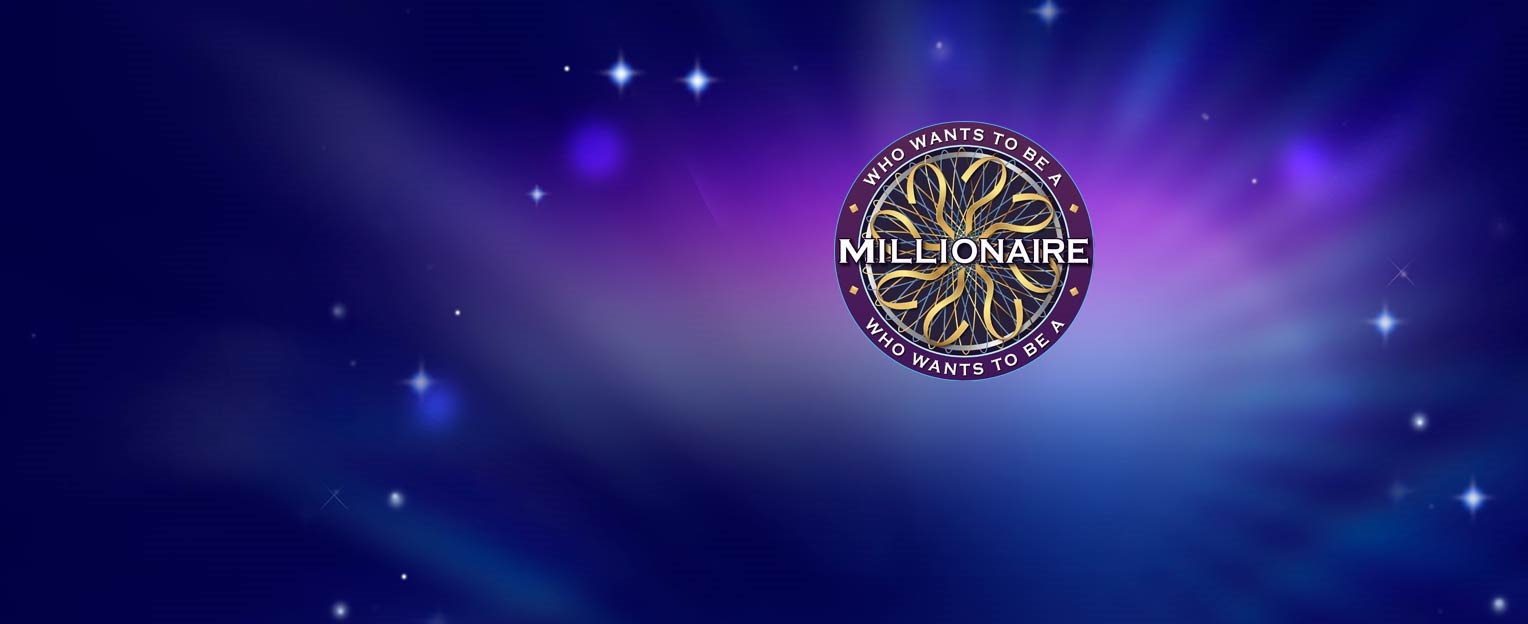
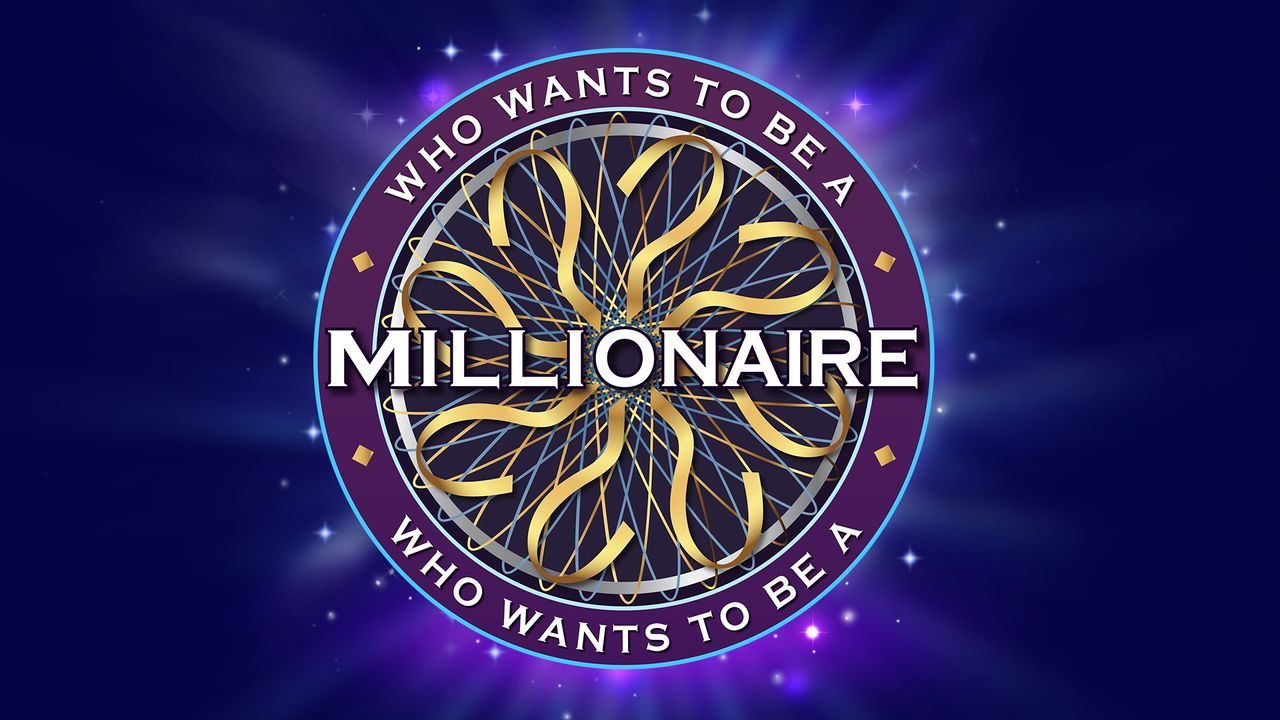
se suben cambios del login

diff --git a/src/css/App.css b/src/css/App.css
@@ -4,11 +4,17 @@
   display: flex;
   justify-content: center;
   align-items: center;
+}
+
+.backgroundLogin {
+  width: 100vw;
+  height: 100vh;
+  position: absolute;
   background-image: url('/src/assets/images/millionaire_.jpg');
   background-repeat: no-repeat;
   background-attachment: fixed;
   background-position: center;
-  opacity: 0.7,
+  background-color: #040444;
 }
 
 .w100vh {

diff --git a/src/screens/LoginScreen.tsx b/src/screens/LoginScreen.tsx
@@ -53,6 +53,7 @@ const LoginScreen: React.FC<LoginScreenProps> = ({
 
   return (
     <div className="loginScreen">
+      <div className="backgroundLogin"></div>
       <Card
         title="Inicio"
         style={styles.cardContainer}
